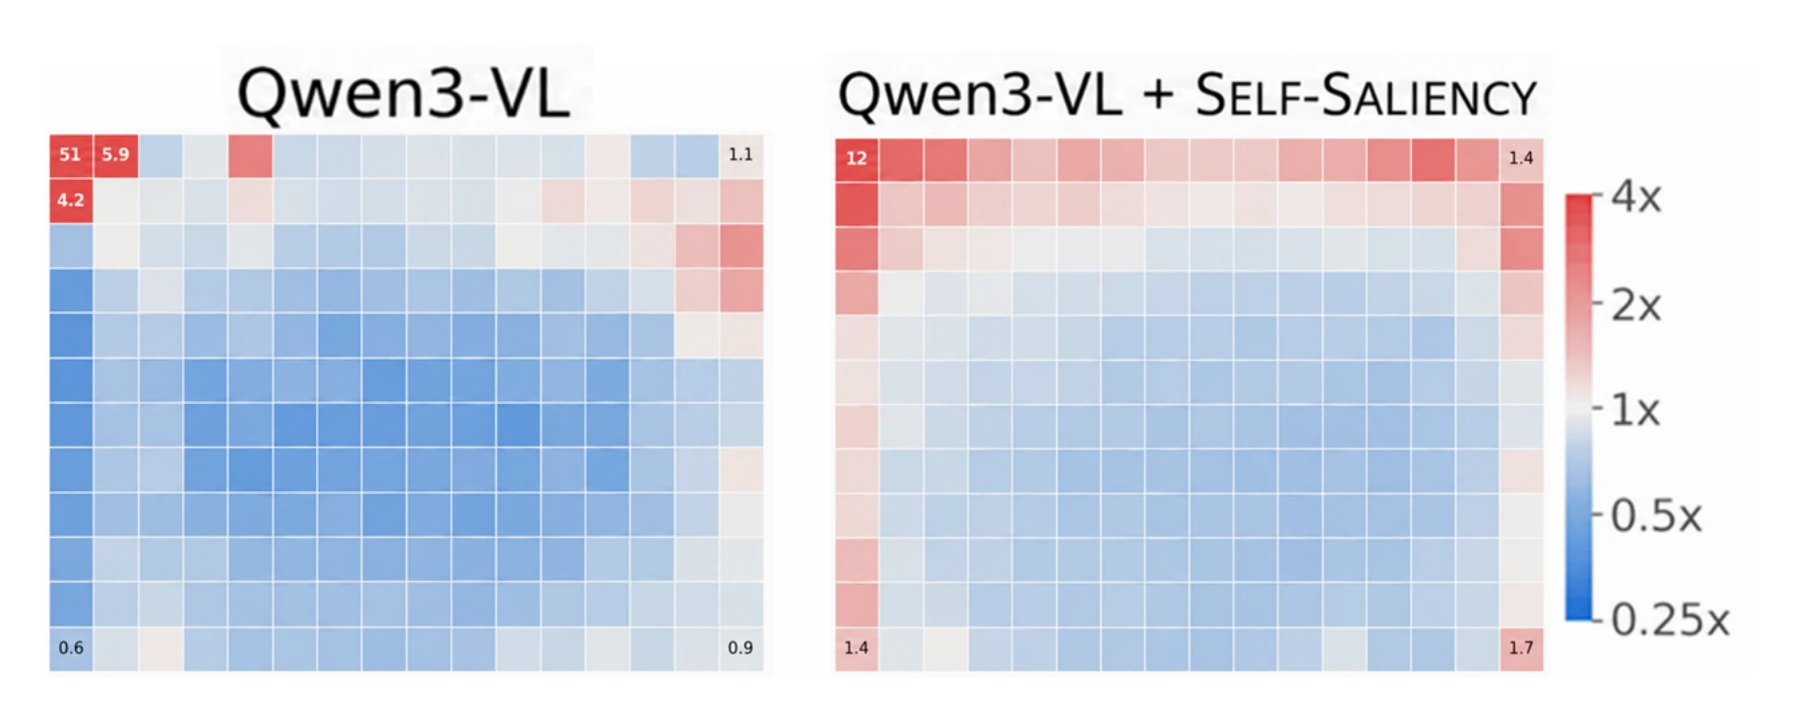
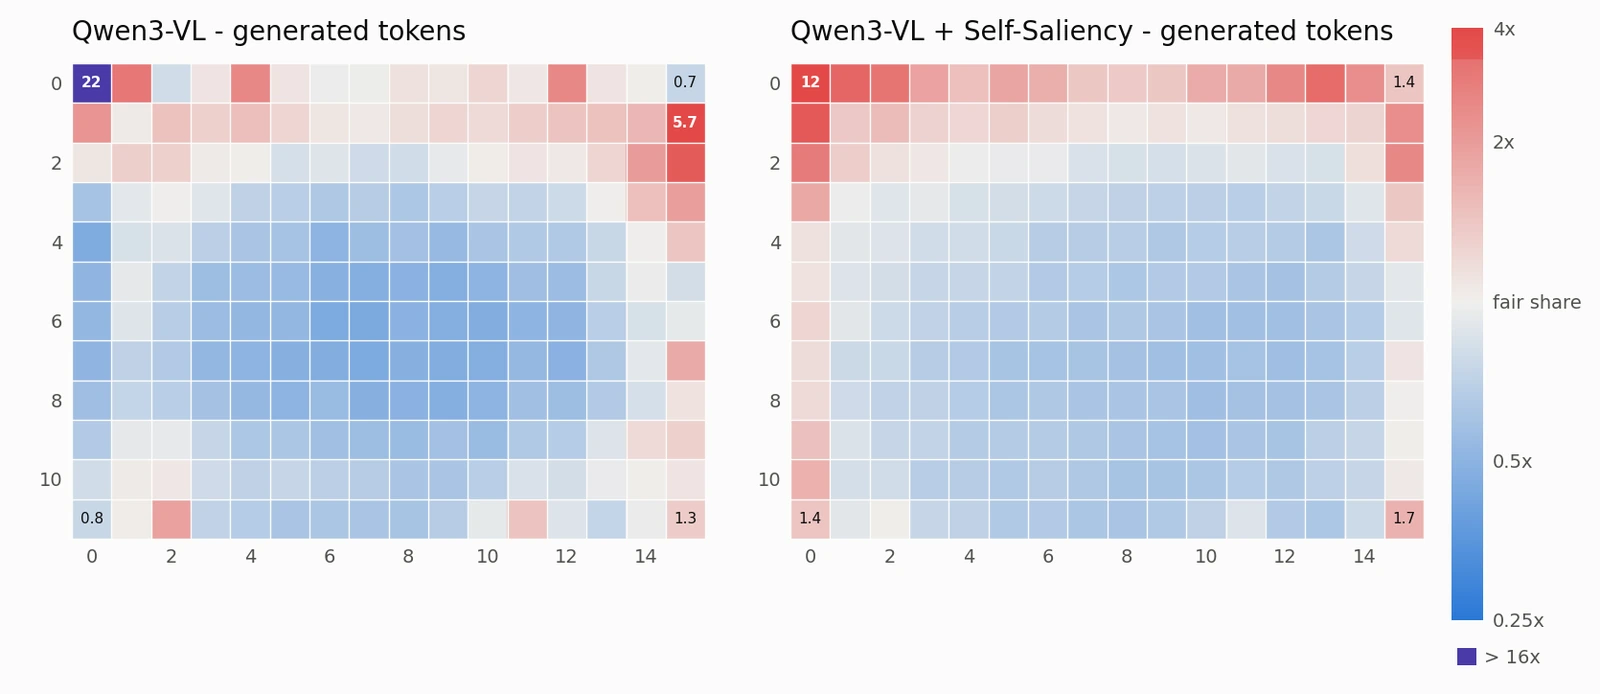
fig5: the regenerated pair, with a colour for the off-scale corner
Replaces the PDF render of Figure 5 with a pair drawn from the scans, where
patches past 16x get their own colour and their own key. The old figure could
not make its own point: the ramp stops at 4x, so a corner at 22x and a corner
at 12x were the same saturated red and only the small direct label said
otherwise -- at the width this renders, nobody reads that label.

Both panels come from one scan pair (box_qwen3vl_auto and
box_overlap_wov04_auto, generated tokens, L22 h28/31), so the top-left patch
reads 22.22 -> 11.51. That is NOT what the paper's Figure 5 shows, which is
51 -> 12; the after panel matches the scan exactly and the before panel does
not, and no report in the repository has a top-left near 51. README records it.
The page carries the self-consistent pair; the paper's figure is worth a look.

The per-panel subtitles and the provenance note are cropped for the web copy.
Both are duplicated across the two panels and illegible at this size, and both
now sit in the figcaption, which is readable.

diff --git a/index.html b/index.html
@@ -285,12 +285,16 @@
     </figure>
 
     <figure class="nv-figure nv-figure--half">
-      <img src="static/images/fig5.webp" width="1800" height="722" loading="lazy"
-           alt="Two patch-grid heatmaps of the two heads used to compute the reward, before and after training. The bright top-left corner is much weaker after training and the mass is spread along the border and toward the center.">
+      <img src="static/images/fig5.webp" width="1600" height="694" loading="lazy"
+           alt="Two patch-grid heatmaps of the two heads used to compute the reward, before and after training. Before training the top-left corner is violet, the colour reserved for patches above 16 times a fair share. After training the same corner is red, inside the scale, and the attention is spread along the border and toward the center.">
       <figcaption>
         <b>The two heads used to compute the reward, before and after
         training.</b> Attention is redistributed primarily from the corner sinks
         to the image border, with a smaller fraction moving toward the center.
+        The top-left patch falls from 22&times; a fair share to 12&times;; violet
+        marks a patch past 16&times;, where the colour ramp stops separating
+        values. Measured over the generated tokens on 1,800 pictures, area
+        weighted onto the modal 12&times;16 patch grid.
       </figcaption>
     </figure>
   </div>

diff --git a/README.md b/README.md
@@ -59,7 +59,7 @@ against the current PDF — they are not hand-edited. Paper Figure 1 is no longe
 shown on the page (the teaser carries that example instead), but
 `og-image.jpg`, the social card, is still rendered from it.
 
-Two are not straight from the PDF:
+Three are not straight from the PDF:
 
 - **`fig2.webp`** is `pipeline_with_rewards.png` from the research repository,
   not the paper's Figure 2. It is the same pipeline with the three reward terms
@@ -71,6 +71,23 @@ Two are not straight from the PDF:
   so the rule sits between panels rather than over one. Nothing else in the
   figure is touched. Re-extracting Figure 4 from the PDF drops the rule; re-run
   that step if you do.
+- **`fig5.webp`** is regenerated from the scans, not taken from the paper at
+  all. `sink_location_xmodel_tables.py --panels` draws the two arms
+  (`box_qwen3vl_auto` and `box_overlap_wov04_auto`, generated tokens, L22
+  h28/31) and `fig5_overrange_compose.py` joins them; both live in the research
+  repository. The colour ramp stops at 4x, so a 22x corner and a 12x corner were
+  both "saturated red" and the figure said they were equal — patches past 16x
+  now carry their own colour and their own key. The per-panel subtitles and the
+  provenance note are cropped for the web copy: both are illegible at the size
+  this renders, and both now sit in the figcaption instead.
+
+  **The numbers differ from the paper.** This pair reads 22 → 12; the published
+  Figure 5 reads 51 → 12. The *after* panel matches the scan exactly (11.51
+  renders as "12", its top-right 1.41 as "1.4"); the *before* panel does not —
+  the scan gives 22.22 and 0.75 against the published 51 and 1.1 — and no
+  `tables.md` under `outputs/sink_location/` holds a top-left anywhere in 46–56.
+  The page shows the regenerated pair because both of its panels come from one
+  scan. Whether the paper's 51 is right is an open question for the paper.
 
 The teaser is the research repository's
 `outputs/fig1-multistep/video-count-soccer/landscape/chain.mp4`: two counting
